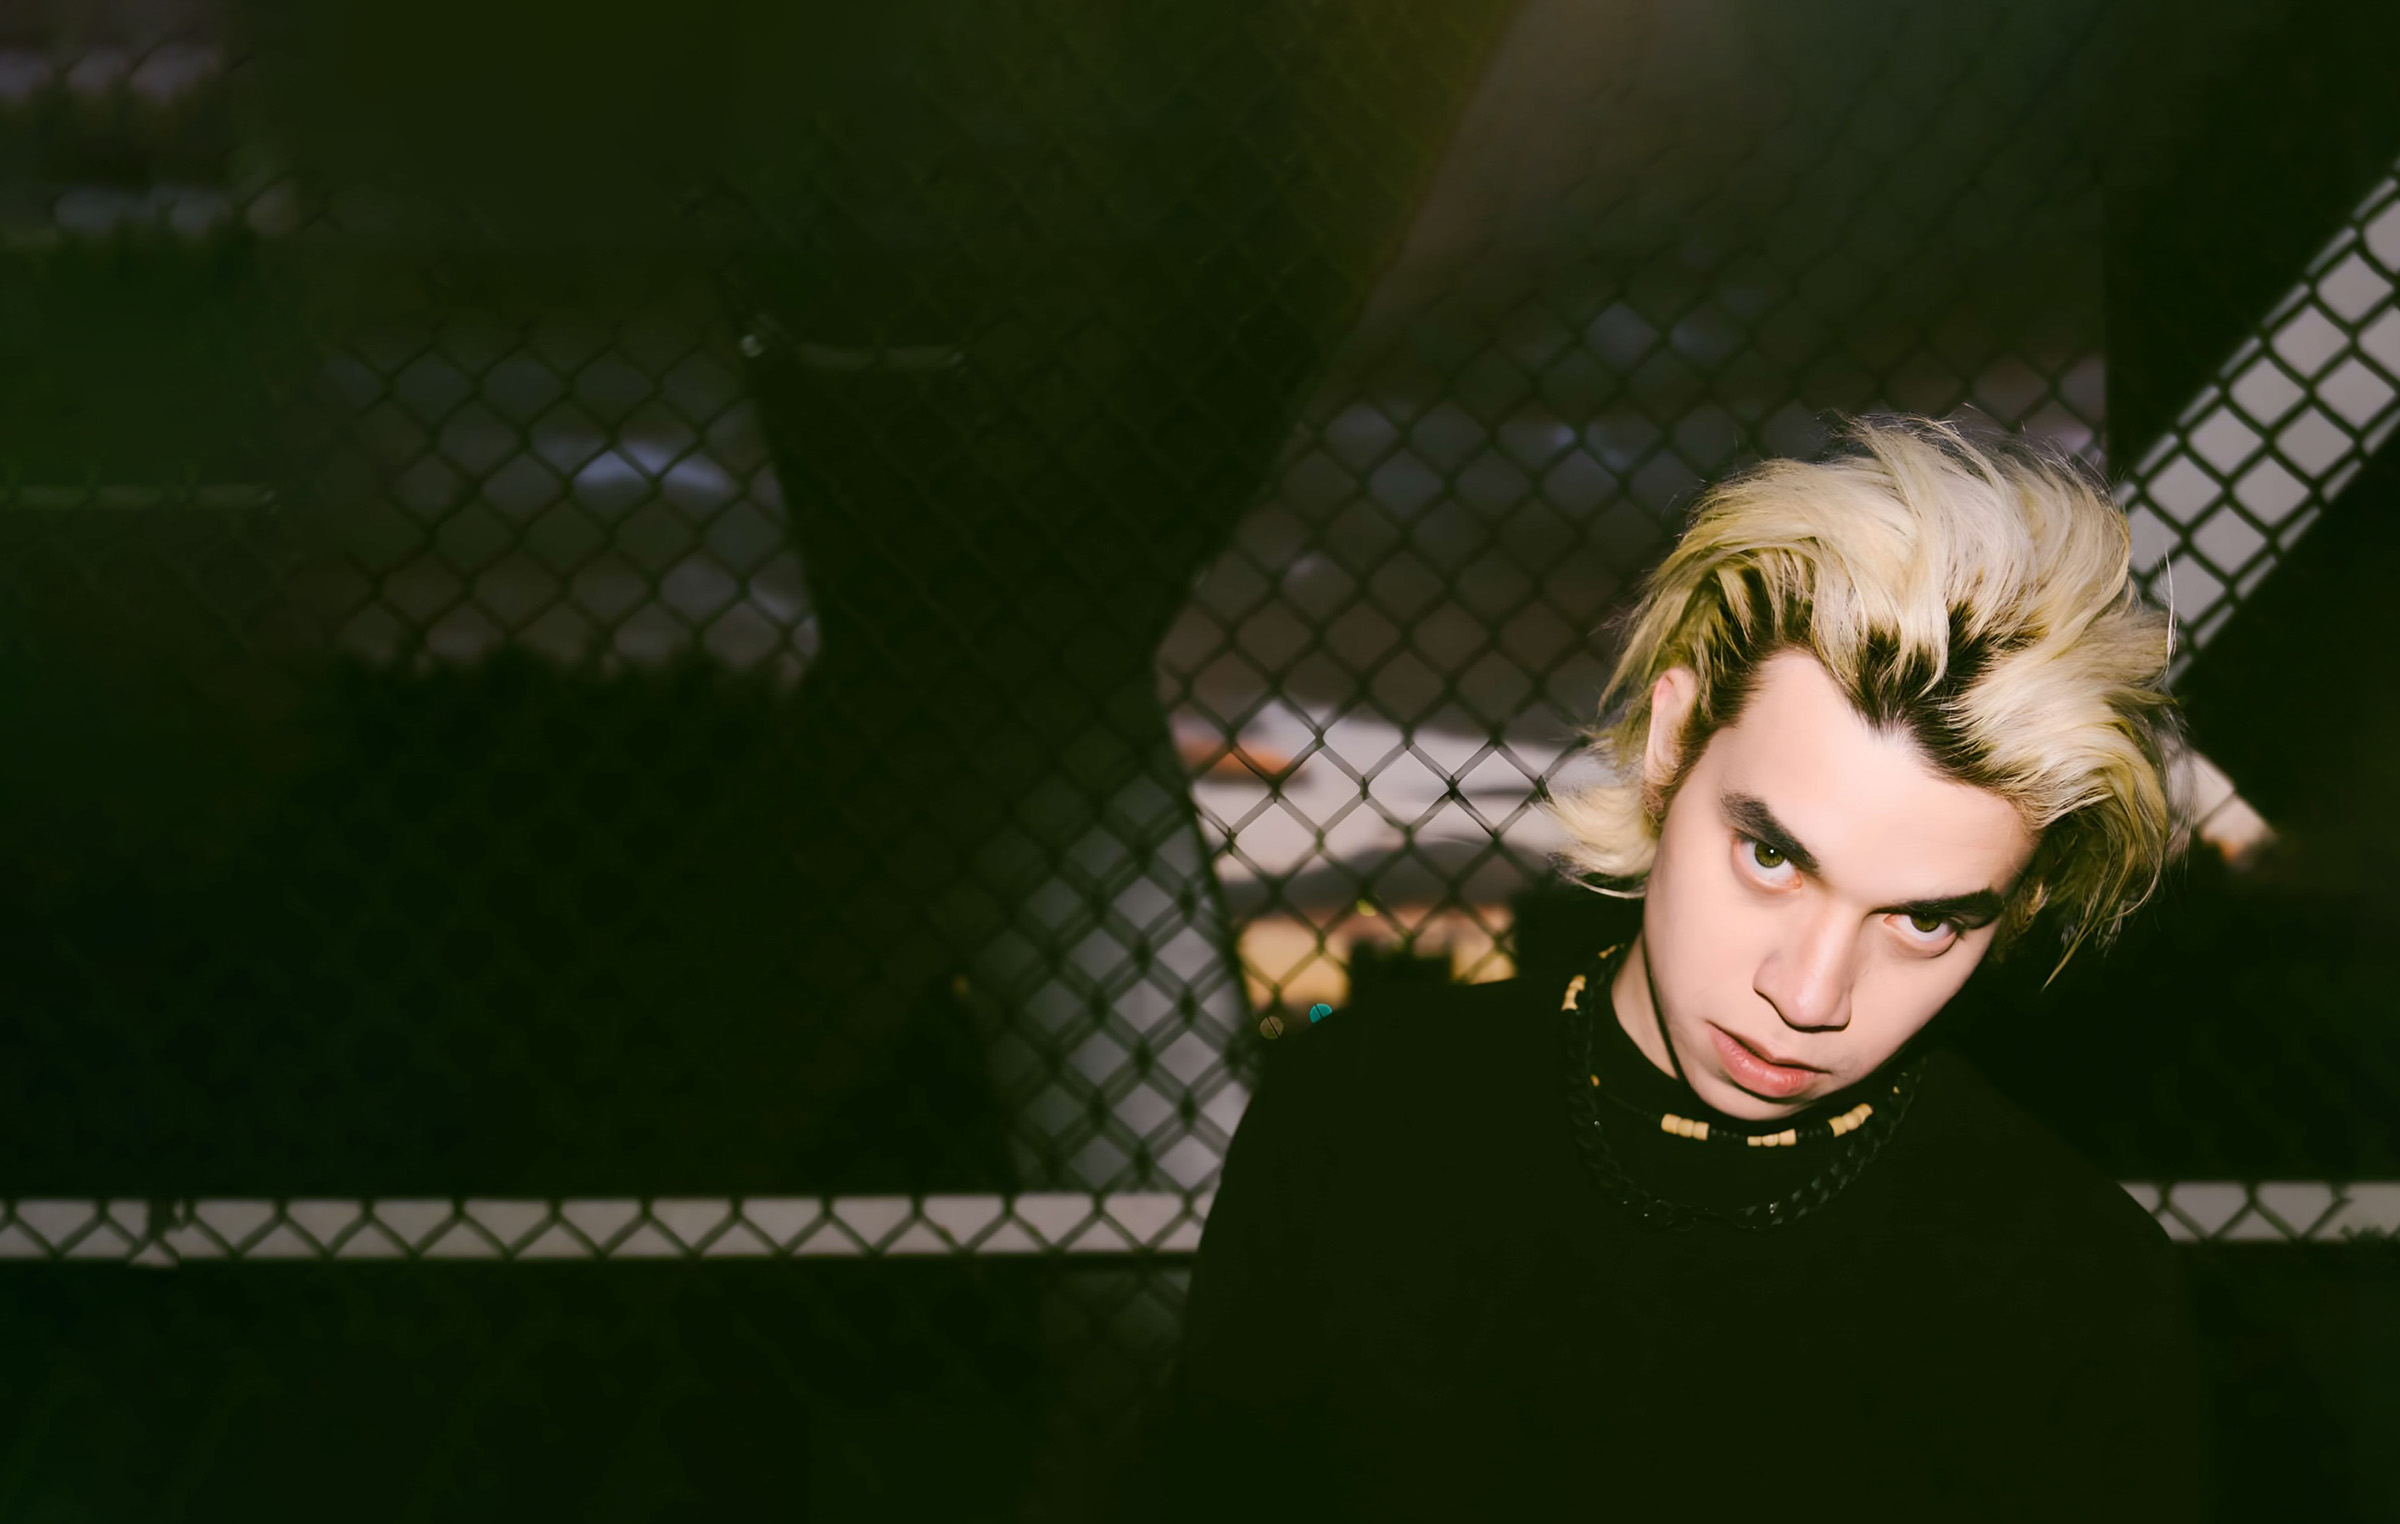
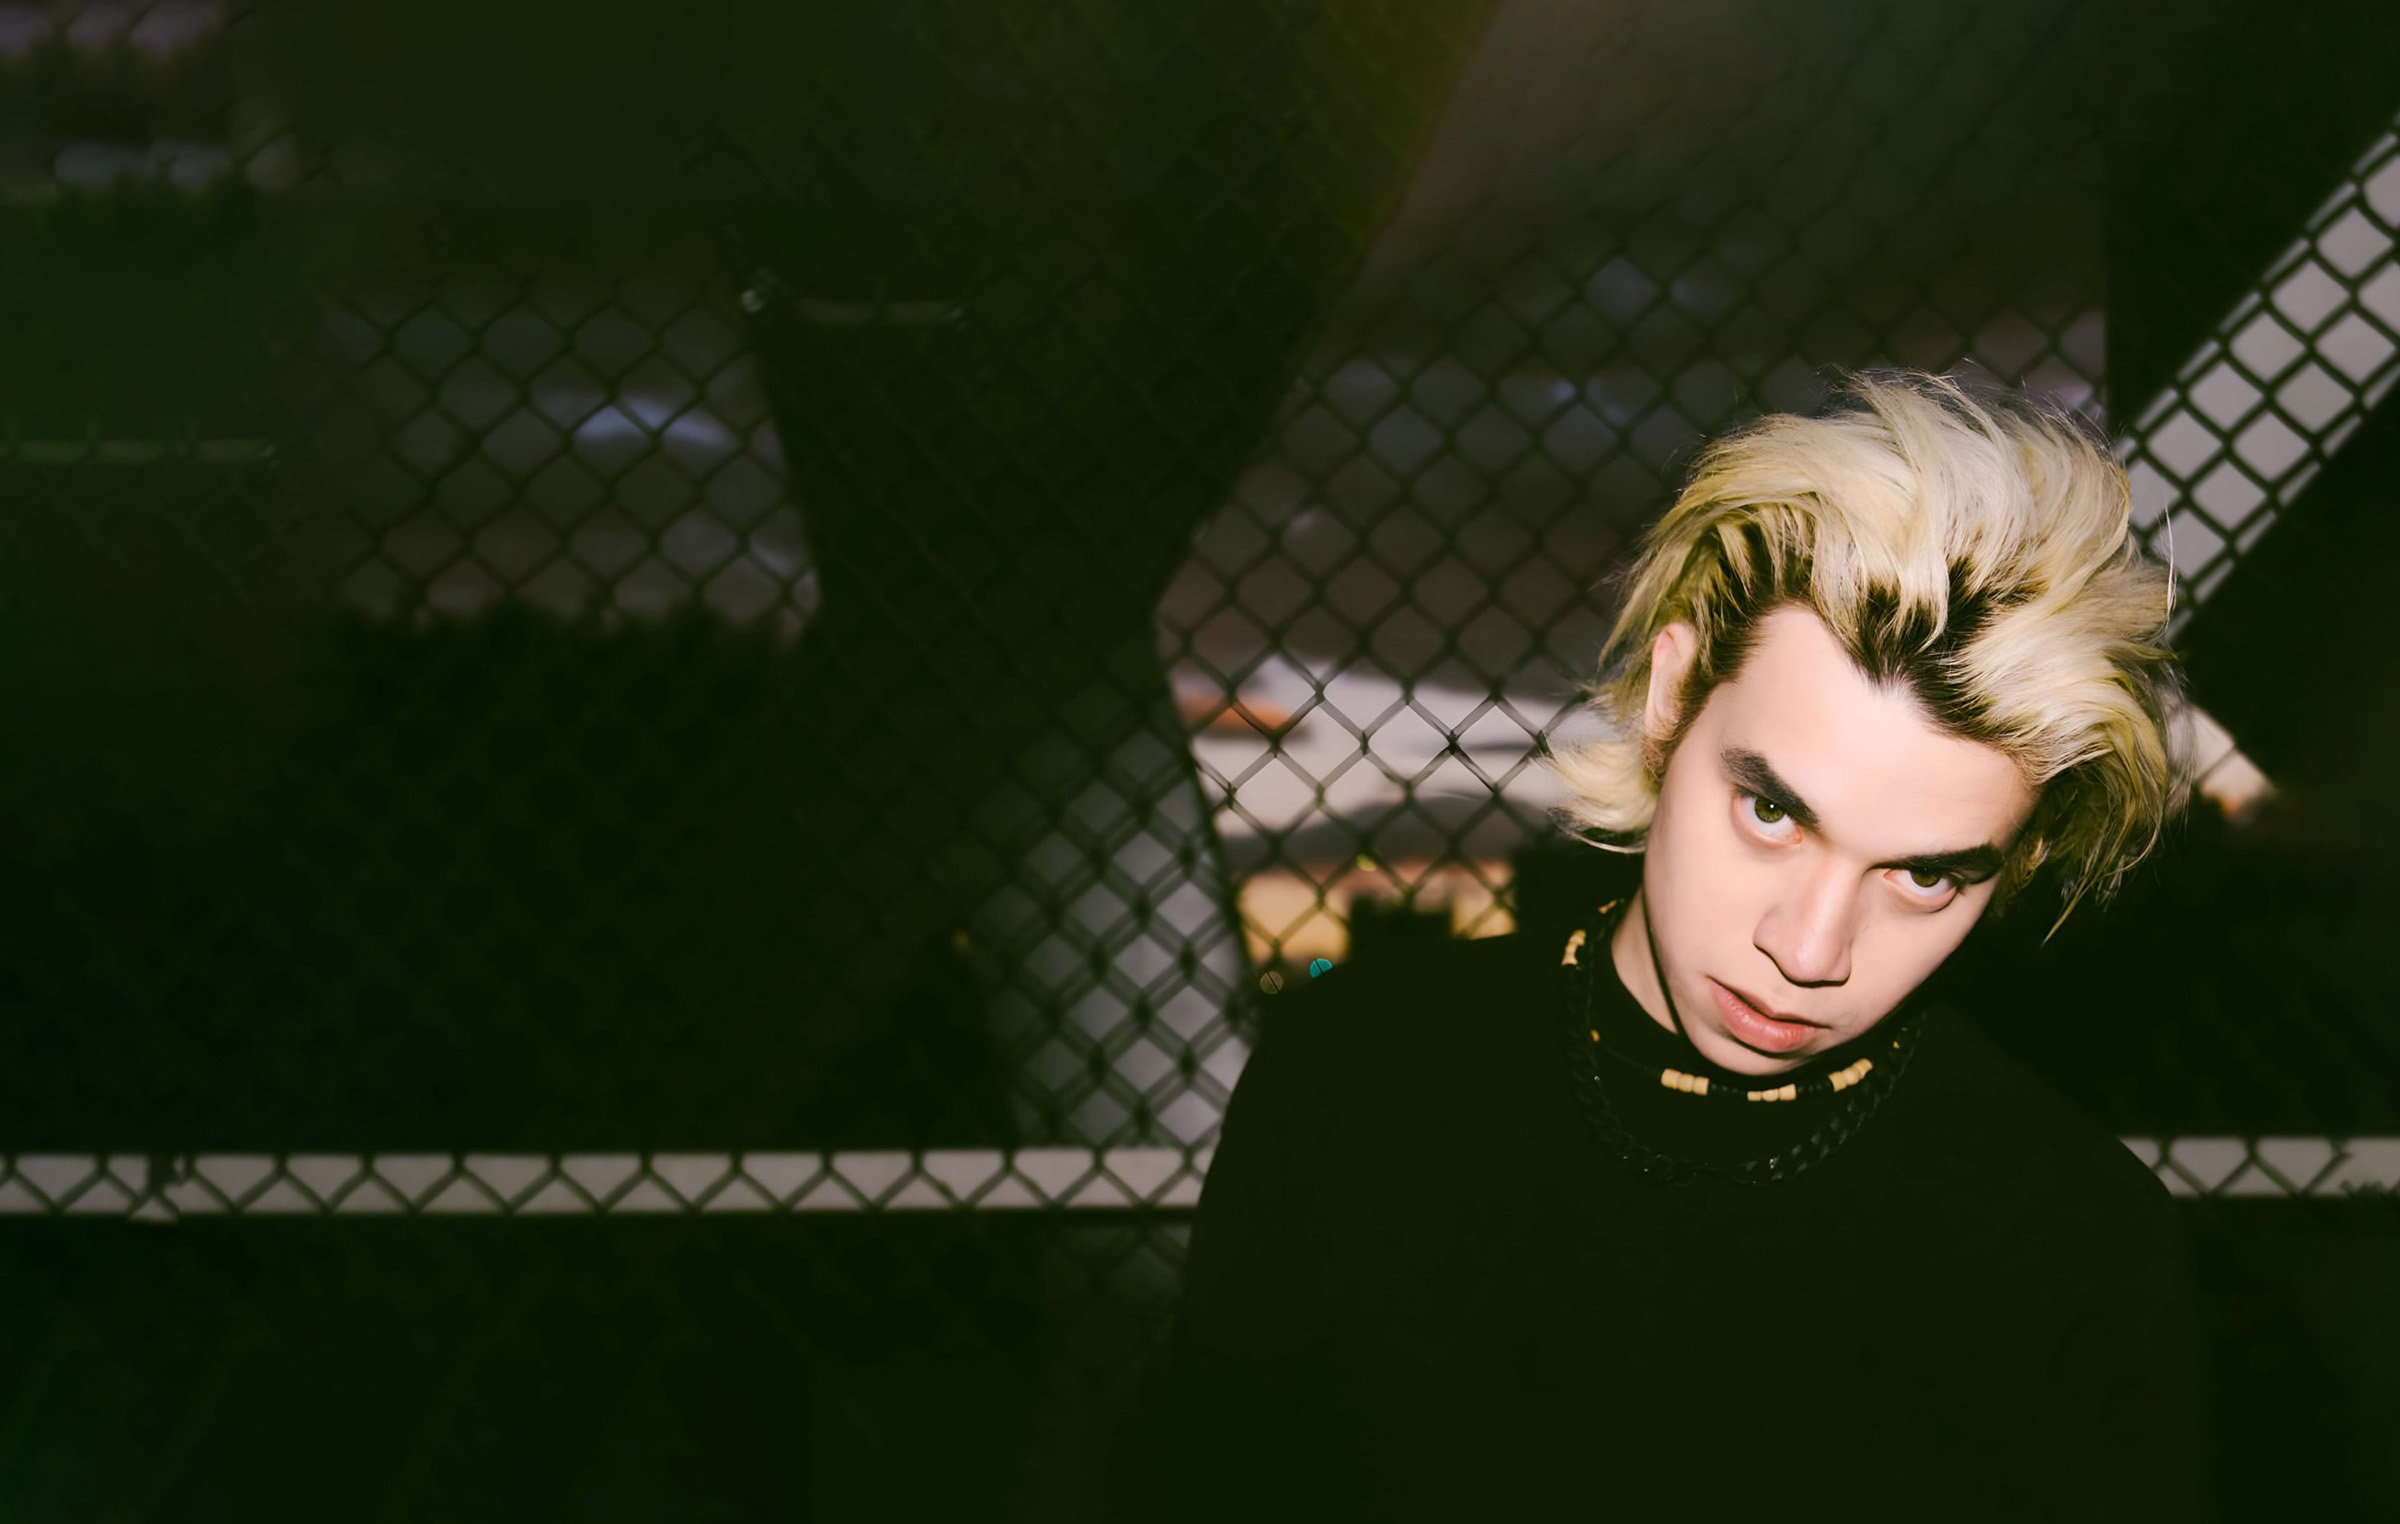
laptop responsive home

diff --git a/src/components/News/News.jsx b/src/components/News/News.jsx
@@ -1,6 +1,6 @@
 import styles from "./News.module.css";
 import {React, useState, useEffect, useRef} from "react";
-import bg from "../../container/img/bgdark2.jpg";
+import bg from "../../container/img/dualbgnew2dark.jpg";
 import img from "../../container/img/act1.jpg";
 import { NewsItem } from "../sub-components/NewsItem/NewsItem";
 import { Swiper, SwiperSlide } from "swiper/react";
@@ -95,11 +95,8 @@ const News = () => {
 
 
       <div    
-      style={{ opacity: isVisible ? 1 : 0, backgroundImage: `url(${bg})` }} className={styles.wrapper}>
+      style={{ opacity: 1, backgroundImage: `url(${bg})` }} className={styles.wrapper}>
 
-      <div className={styles.headerTitle}>
-        <h1>LATEST NEWS</h1>
-      </div>
 
       <div className={styles.newsGrid}>
         {/* < NewsItem/> */}

diff --git a/src/components/Hero/Hero.module.css b/src/components/Hero/Hero.module.css
@@ -108,7 +108,7 @@ a:link {
   -ms-flex-align: center;
   -webkit-align-items: center;
   align-items: center;
-  height: 75svh;
+  height: 74svh;
  
   background-repeat: no-repeat;
   background-position: right center;
@@ -662,7 +662,7 @@ a:link {
   flex-direction: column;
   justify-content: center;
   align-items: center;
-  margin-top: 6rem;
+  margin-top: 2rem;
   flex: 1 1 47rem;
 }
 .right3 {
@@ -749,7 +749,7 @@ a:link {
   display: flex;
   flex-direction: column;
   position: absolute;
-  top: 71.5svh;
+  top: 73.5svh;
   left: 50%;
   transform: translate(-50%, -50%);
   text-align: center;
@@ -760,7 +760,7 @@ a:link {
 
 .spotifyContainer {
   position: absolute;
-  top: 75.5vh;
+  top: 77svh;
   left: 1%;
 
   width: 25rem;

diff --git a/src/components/MVideos/MVideos.module.css b/src/components/MVideos/MVideos.module.css
@@ -19,9 +19,9 @@
 }
 .mySwiper {
   box-sizing: border-box;
-  padding: 10px 0;
+  padding: 15px 0;
   height: 100%;
-  width: 125rem;
+  /* width: 125rem; */
 
 }
 
@@ -34,7 +34,7 @@
   display: flex;
 justify-content: center;
 align-items: center;
-  height: 25vh;
+  
  
   background: rgba(78, 71, 71, 0.219);
 
@@ -59,6 +59,7 @@ align-items: center;
 .mvparentwrapper{
   opacity: 1;
   transition: opacity 0.5s ease-in-out;
+  height: 74svh;
 
 }
 
@@ -132,7 +133,7 @@ align-items: center;
 
    .mySwiper2 {
     width:55vw;
-    margin-bottom: 5vh;
+    margin-bottom: 6.5vh;
   }
 }
 @media only screen and (min-width: 320px) and (max-width: 1027px) {

diff --git a/src/components/Hero/Hero.jsx b/src/components/Hero/Hero.jsx
@@ -532,7 +532,7 @@ export default function SwiperComp() {
             </div>
             <div className={HeroCSS.textContainer}>
               <img className={HeroCSS.dualtitlevid} src={dualtitle} alt="" />
-              <h1 className={HeroCSS.title}>27 BODIES</h1>
+              <h1 className={HeroCSS.title}>27 Bodies</h1>
               <div className={HeroCSS.btns}>
                 <div className={HeroCSS.btncontainerlisten}>
                   <a

diff --git a/src/components/MVideos/MVideos.jsx b/src/components/MVideos/MVideos.jsx
@@ -51,7 +51,6 @@ const MVideos = () => {
   return (
     <div className = {mvcss.mvparentwrapper}  ref={swiperRef}style={{ opacity: 1, backgroundImage: `url(${bg})`, }}>
       <div className={mvcss.titleWrapper}>
-      <h1 className = {mvcss.mvtitle}>MUSIC VIDEOS</h1>
           
       </div>
 

diff --git a/src/components/News/News.module.css b/src/components/News/News.module.css
@@ -6,6 +6,8 @@
 .newsParent {
   display: flex;
   flex-direction: column;
+  height: 74svh;
+  justify-content: center;
 }
 
 .headerTitle {
@@ -58,7 +60,6 @@
   justify-content: baseline;
   opacity: 1;
   transition: opacity 0.5s ease-in-out;
-  margin-bottom: 2.5rem;
  
 }
 

diff --git a/src/components/sub-components/MVembed2/MVembed2.css b/src/components/sub-components/MVembed2/MVembed2.css
@@ -36,9 +36,9 @@ button {
 
 
    .mvparentmain{
-    
-    width: 45vw;
-    height: 25vw;
+    margin-top: 6vh;
+    width: 35vw;
+    height: 20vw;
    }
 
    .customPlayButton {
